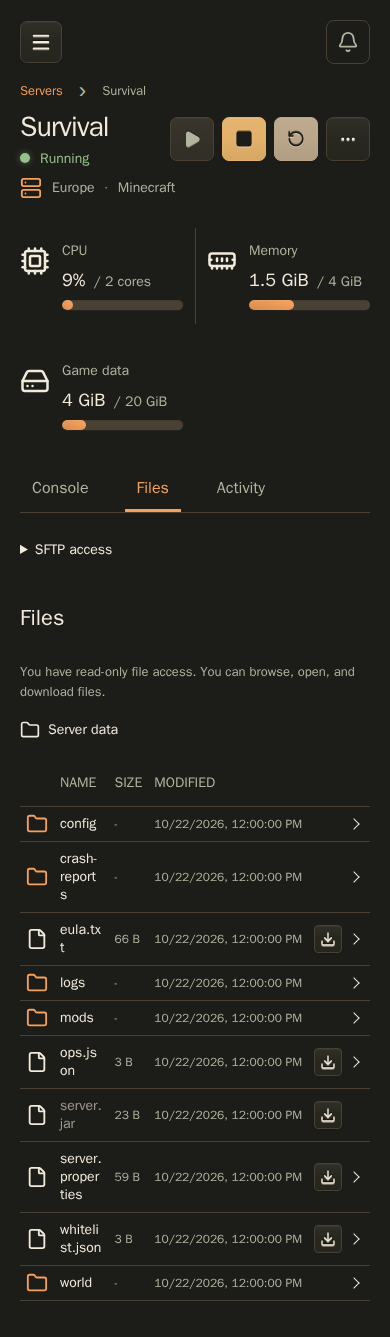
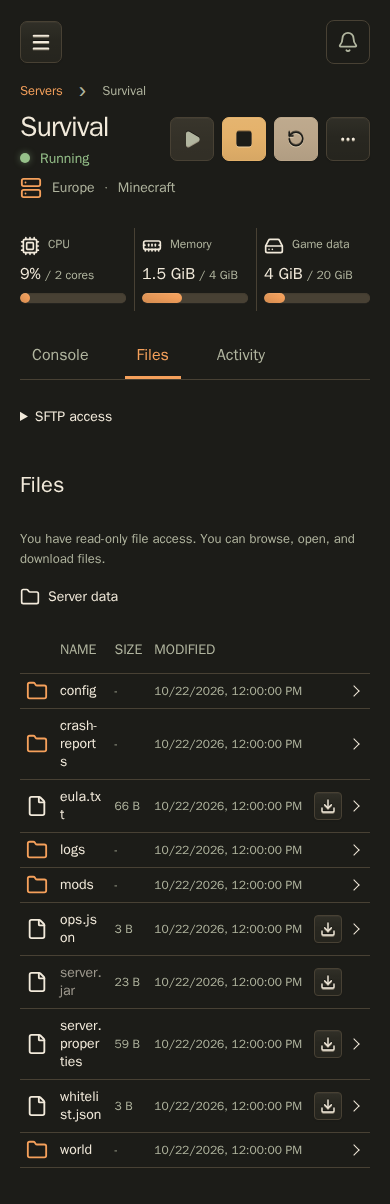
Share compact Overview resource tiles with server operations
Reuse the responsive single-line readings and keep all three server resource tiles in one row. Preserve desktop spacing and existing Overview baselines; add no duplicate resource-tile crop or layout assertions.

Refresh three affected mobile page screenshots. Scroll the complete backup row into view before interacting after viewport changes. All 21 affected browser tests pass during refresh; six focused canonical comparison tests pass with updates disabled. Production build, typechecks, lint and formatting pass; full verification deferred.

diff --git a/web/src/pages/dashboard.css b/web/src/pages/dashboard.css
@@ -12,63 +12,6 @@
   }
 }
 
-@container overview-metrics (max-width: 32rem) {
-  .overview-metrics .metric-tiles {
-    gap: 16px;
-  }
-
-  .overview-metrics .metric-tiles > .usage-reading-icon {
-    --resource-allocation-font-size: clamp(10px, 3.6cqi, 12px);
-    grid-template-columns: 20px minmax(0, 1fr);
-    gap: 8px;
-    padding-block: 8px;
-
-    &::before {
-      inset-inline-start: -8px;
-    }
-
-    & .usage-icon {
-      grid-row: 1;
-      padding-top: 0;
-    }
-
-    & .usage-icon svg {
-      width: 20px;
-      height: 20px;
-    }
-
-    & .usage-label {
-      font-size: 12px;
-    }
-
-    & .usage-value,
-    & .resource-meter {
-      grid-column: 1 / -1;
-    }
-
-    & .usage-value {
-      font-size: clamp(12px, 5cqi, 16px);
-      white-space: nowrap;
-      overflow: hidden;
-      text-overflow: ellipsis;
-    }
-
-    & .resource-allocation {
-      margin-inline-start: 4px;
-    }
-  }
-}
-
-@container overview-metrics (max-width: 20rem) {
-  .overview-metrics .metric-tiles {
-    gap: 8px;
-  }
-
-  .overview-metrics .metric-tiles > .usage-reading-icon::before {
-    inset-inline-start: -4px;
-  }
-}
-
 .dashboard-activity-grid {
   display: grid;
   grid-template-columns: repeat(auto-fit, minmax(min(100%, 420px), 1fr));

diff --git a/web/src/components/metrics/metric-tiles.css b/web/src/components/metrics/metric-tiles.css
@@ -36,3 +36,60 @@
     }
   }
 }
+
+@container (max-width: 32rem) {
+  .metric-tiles {
+    gap: 16px;
+  }
+
+  .metric-tiles > .usage-reading-icon {
+    --resource-allocation-font-size: clamp(10px, 3.6cqi, 12px);
+    grid-template-columns: 20px minmax(0, 1fr);
+    gap: 8px;
+    padding-block: 8px;
+
+    &::before {
+      inset-inline-start: -8px;
+    }
+
+    & .usage-icon {
+      grid-row: 1;
+      padding-top: 0;
+    }
+
+    & .usage-icon svg {
+      width: 20px;
+      height: 20px;
+    }
+
+    & .usage-label {
+      font-size: 12px;
+    }
+
+    & .usage-value,
+    & .resource-meter {
+      grid-column: 1 / -1;
+    }
+
+    & .usage-value {
+      font-size: clamp(12px, 5cqi, 16px);
+      white-space: nowrap;
+      overflow: hidden;
+      text-overflow: ellipsis;
+    }
+
+    & .resource-allocation {
+      margin-inline-start: 4px;
+    }
+  }
+}
+
+@container (max-width: 20rem) {
+  .metric-tiles {
+    gap: 8px;
+  }
+
+  .metric-tiles > .usage-reading-icon::before {
+    inset-inline-start: -4px;
+  }
+}

diff --git a/e2e/backup-modes.spec.ts b/e2e/backup-modes.spec.ts
@@ -48,7 +48,7 @@ test("manual backups send the selected type and save-data restore describes its 
     ).toBeInViewport({ ratio: 1 });
     await page.keyboard.press("Escape");
     const name = firstBackup.getByText("mock-nightly.tar.gz", { exact: true });
-    await name.scrollIntoViewIfNeeded();
+    await firstBackup.scrollIntoViewIfNeeded();
     await expect(name).toBeInViewport({ ratio: 1 });
     for (const action of await firstBackup.getByRole("button").all())
       await expect(action).toBeInViewport({ ratio: 1 });

diff --git a/web/src/pages/server-operations.css b/web/src/pages/server-operations.css
@@ -28,7 +28,13 @@
   }
 }
 .operations-resources {
+  container: operations-resources / inline-size;
   min-width: 0;
+
+  & .metric-tiles {
+    grid-template-columns: repeat(3, minmax(0, 1fr));
+    margin-bottom: 0;
+  }
 }
 .ember-update-notice {
   display: grid;
